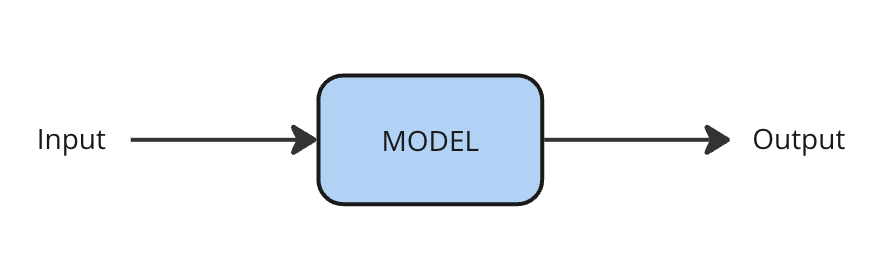
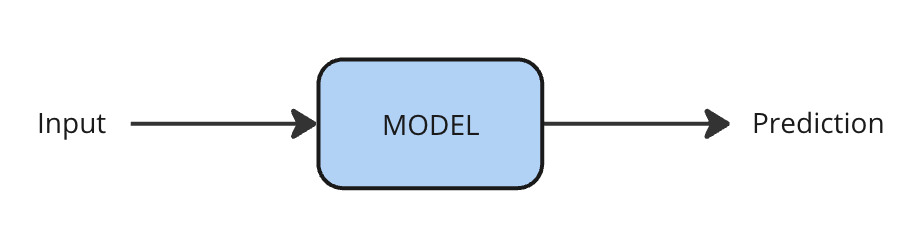
Updated descriptions of un/supervised learning

Changed region(s): [[0.0305, 0.2393, 0.9774, 0.8376], [0.3971, 0.4487, 0.5498, 0.5983]]

diff --git a/docs/supervised-learning.md b/docs/supervised-learning.md
@@ -6,42 +6,74 @@ This section will help you understand:
 
 - What supervised learning is, and where you can use it
 - The difference between classification and regression
+- Some of the supervised learning algorithms you might encounter
 - Some real-world examples of supervised learning in research
 
 
 ## What is supervised learning?
 
-Supervised learning is one of the most widely used types of machine learning. Supervised models predict an output for a given input. Our job is to define what the input and output are, and train the model to do a good job at the prediction. 
+Supervised learning is one of the most widely used types of machine learning in the field of AI. Supervised models make predictions about their inputs. They learn how to make those predictions from a dataset of examples that are labelled with the correct prediction (also called the _ground truth_).
+
+Our job in using supervised learning is to define what the input and output of a model should be, to obtain the labelled data, and then to train the model to make accurate predictions. 
 
 ![Supervised Learning](imgs/sup1.png){ align=center }
 
-In supervised learning, models are trained on a dataset that's been labelled with the labels that you would like the model to predict. One example is of spam email detection, where we would like to predict whether an email is spam or not.
+One example of supervised learning is that of predicting whether an email is spam or not. In this example, there are two _categories_, or _classes_ - SPAM and NOT_SPAM.
+
+Our machine learning models cannot directly accept email text as input, so first we extract features from each of the emails. Three features might be, for example, the length of the email, the number of spelling mistakes, and the number of dollar signs in the email. 
 
 ![Spam Email Detection](imgs/sup2.png){ align=center }
 
+By training the model directly on a dataset of emails that have been labelled as being spam or not, the model can learn the patterns that identify the two types of email, and then predict for a new email whether it is spam or not. 
+
+## Classification and Regression
+
 Supervised learning can either be **classification** or **regression**.
 
-**Classification** is where the output is one of a fixed number of categories. This could be a binary classification task where there are exactly two possible outputs, like the example of spam email. There could be multiple categories, likerecognising the person in an image, like your phone might do. Even more, in some scenarios, an input might have multiple output labels, which is called _multi-label classification_, e.g. an image might have multiple people in it.  
+**Classification** is where the output is one of a fixed number of categories. This could be a binary classification task where there are exactly two possible outputs, like the example above of spam email detection. A different task might have multiple categories that an input could belong to. For example, recognising the face of a person in a photo. There are many possible people who could be pictured in the photo, and each person is a possible category. 
 
-**Regression** is where the output is a continuous number rather than a discrete class. Examples might be...
+In other scenarios, an input might have more than one label. For example, a photo might have two or more different people in it, and we'd like to identify each. This is called _multi-label_ classification.
 
-Other examples of supervised learning tasks include:
+Sometimes the number of classes can be very large, as in the case of many language processing tasks. Automatically translating text from one language to another is a supervised task, where the model predictions are words in the target language. 
 
-| Task | Input | Output |
+**Regression** is similar to classification, except that the output is a continuous number rather than a discrete class. Examples might be predicting the toxicity of a molecule on a scale. 
+
+## Examples of Supervised Learning
+
+Examples of supervised learning tasks include:
+
+| Task | Input | Prediction |
 | ---- | ----- | ------ |
+| Segment tumours in medical images | Medical images | Areas which are tumours |
+| Toxicity prediction | Chemical formula | Toxicity |
+| Medical Diagnosis | Biomarkers, test results etc. | Diagnosis |
 | Automated transcription | Audio files | Written transcription |
 | Machine translation | Text in the source language | Text in the target language |
 
 
-Inputs here are also known as _features_. Outputs are labels, or predictions. 
+## Types of Supervised Learning Model
+
+Some of the common supervised learning algorithms you might encounter are:
+
+- Linear Regression
+- Logistic Regression
+- Decision Trees 
+- Support Vector Machines
+- Neural Networks
+
+Much of the recent excitement around AI focuses on neural network approaches. However, depending on your data and task, the other algorithms may be more practical to use.
+
+## Feature Extraction
+
+It's worth noting that models require numerical inputs as it's something you'll need to consider in designing your setup. Some tasks naturally have numerical inputs already - whether that's data from sensors, medical tests, pixel values or something else that's naturally a number. In other tasks, we need to convert our input to a numerical format by extracting _features_. 
 
 
 ## Top Tips for getting started
 
-1. Think carefully about the task you want to work with; can you define your task as a supervised learning one? What are the inputs and outputs of your model?
+1. A great place to begin is by thinking about the task you want to used supervised learning for. Can you define your task as a supervised learning one? What are the inputs and predictions of your model?
 2. Next, think about the data you have. Can you label it easily?
-3. Think carefully about how to evaluate whether your system is working. What metrics could you use?
-4. What are the risks and ethical concerns with your proposed work?
+3. Evaluating your model is also important, and at this point it's feasible to think about how you'll evaluate whether your system is working. What metrics could you use?
+4. What are the risks and concerns with your proposed work?
 
 Once you've answered these questions, you're ready to move onto training a model.
 
@@ -53,7 +85,7 @@ Find more examples of research using supervised learning on Accelerate's blog:
 - [Nicola Moloney talks about using supervised learning to predict where proteins are localised within a cell](https://acceleratescience.github.io/accelerate-spark%20data%20science%20residency/2021/06/24/NicolaMoloney-ML-for-parasitology.html)
 - [Joyce Nakatumba-Nabende discusses how speech recognition can be deployed to help farmers in Uganda](https://acceleratescience.github.io/machine-learning/2024/01/08/how-can-we-use-ai-to-help-smallholder-farmers-in-uganda.html)
 - [Yizhou Wan tells us how AI can be used to segment brain tumours in images, and to estimate their volume](https://acceleratescience.github.io/accelerate-spark-data-science-residency/2024/01/31/can-we-use-ai-to-better-treat-brain-cancer.html)
-
+- [Chris Bannon hopes to predict whether someone's gut biome or metabolic marker levels are that of a healthy person, or whether they have a metabolic or bowel condition](https://acceleratescience.github.io/accelerate-spark-data-science-residency/machine-learning/2024/02/19/how-can-we-use-ai-to-advance-metabolic-medicine.html)
 
 ## Contact
 

diff --git a/docs/unsupervised-learning.md b/docs/unsupervised-learning.md
@@ -13,33 +13,35 @@ This section will help you understand:
 
 Supervised learning is the most popular form of AI. However, supervised learning requires labelled data, which can be difficult or expensive to obtain. Most of the data in the world is unlabelled. Unsupervised learning helps us make sense of unstructured and unlabelled data.
 
-Three common unsupervised algorithms are _clustering_, _dimensionality reduction_ and _anomaly detection_. 
+Three common unsupervised algorithms are _clustering_, _dimensionality reduction_ and _anomaly detection_.
+
+## Unsupervised Learning Algorithms
 
 **Clustering**
 
-Clustering is the process of taking your data and arranging it into sub-groups, or clusters, that are sufficiently similar to each other. Unlike classification, where we know the groups ahead of time, clustering uncovers the structure of the groups in a larger population.
+Clustering is the process of taking your data and discovering sub-groups, or clusters, that are sufficiently similar to each other. Unlike classification in supervised learning, where we know the groups ahead of time, clustering uncovers the structure of the groups in a larger population.
 
-Suppose you have a library of photos of people. A clustering algorithm might group them into clusters that you hope would correspond to specific individuals. This is not unlike the processing that your phone's library might do. You cannot guarantee that this is the case, your phone might for example group two people together if they look similar, or split one person into two clusters based on something like their haircut. 
+Suppose you're working with medical data. You know that some groups of people respond differently to treatment than others, but you don't know the factors that lead here. A clustering algorithm might group your participants into different clusters that allow you to explain what's going on. 
 
-Other applications of clustering include: xxx
+Other places that people have used clustering include uncovering structure in archeological data, clustering sounds and speakers together, identifying sub-groups of study participants etc. 
 
-K-means is a popular clustering algorithm. You might have to give the number of clusters, or you might use a method to try and find the best fitting number of clusters.  
+K-means and DBSCAN are popular clustering algorithms. You may need to give the number of clusters before running the clustering algorithm, or you might use an automated method to try and find which number of clusters best fits the data. 
 
 
 **Dimensionality reduction**
 
-High dimensional data is hard to work with. It's hard to see, and also has an impact on the number of parameters your AI model might need to model the data. The more parameters you have, the larger model and more data you need. This is the _curse of dimensionality_.
+High dimensional data is hard to work with. The first thing we usually notice is that it's hard to visualise well, so that you can explore what the data looks like. A high number of dimensions also imacts the number of parameters your AI model needs to model the data. The more parameters a model has, the larger model and more data you need. This is the _curse of dimensionality_.
 
-Reducing the dimensionality of your data can be one way to work with this.
+Reducing the dimensionality of your data can be one way to work with it effectively. Projecting down to 2- or 3-dimensions means that you can plot it on a graph to view. 
 
-Can also help with visualisation, because we can project to 2- and 3-dimensions which we can view on a graph. 
+
+Principal Component Analysis (PCA), [t-SNE](https://distill.pub/2016/misread-tsne/), and [UMAP](https://pair-code.github.io/understanding-umap/) are popular dimensionality reduction algorithms that you might see used. 
 
 **Anomaly Detection**
 
-Tries to figure out if an example is an anomaly, and doesn't fit with the rest of the set. 
+Anomoly detection is identifying anomolous or rare examples in a dataset, that are inconsistent with the rest of the dataset.
 
-For example, identifying a fraudulent bank transaction because it doesn't fit with your other transactions. 
-
+Examples of this might be in identifying fraudulent and unusual bank transactions, or identifying unusual behaviour that might be a cybersecurity threat. 
 
 
 ## Inspiration

diff --git a/docs/reinforcement-learning.md b/docs/reinforcement-learning.md
@@ -11,27 +11,20 @@ This section will help you understand:
 
 
 ## Overview
-Reinforcement learning is an area of AI and ML looking at tasks where the computer has to take a series of moves in an uncertain and changing environment, to achieve a goal. 
+Reinforcement learning is an area of AI and ML looking at tasks where the computer has to take a series of moves in an uncertain and changing environment, to achieve a particular goal. 
 
 RL is used in scenarios like
 
-- Playing computer games (DeepMind’s Go and Atari models)
+- Playing games
 - Human-computer dialogue
-- Controlling robots in dynamic environments
+- Controlling robots in real-world environments
 
-In each of these tasks, it’s hard to judge in isolation whether a single turn or move by the computer is optimal, but we do know in the long-term whether the computer achieves its goal. The machine may or may not have good visibility of its environment. 
+In each of these tasks, it’s hard to judge in isolation whether a single turn or move by the computer is optimal. Yet, we do know in the long-term whether the computer achieves its goal.
 
-Reinforcement learning aims to optimise a reward that the machine gets from successfully completing its goal, perhaps with some penalty for taking too long. 
 
-An agent, i.e. the computer, exists in an environment. The agent must take a series of actions, moving them between states. Over time, they accumulate a reward. 
+## Inspiration
 
-Compared to supervised and unsupervised methods, RL learns dynamically. 
-
-In real-world scenarios is might not be feasible (or timely) for the machine to learn in the real environment, so it may be simulated. 
-
-Much theoretical work has been done in a computer game environment where the reward is the score at the end of the game. 
-
-RL algorithms learn a policy - that’s the model to decide which action to take in any one state.
+- [One famous example of reinforcement learning is Deepmind's AlphaGo model, that learned to play the game Go](https://deepmind.google/technologies/alphago/)
 
 
 ## Contact

diff --git a/docs/what-is-ai.md b/docs/what-is-ai.md
@@ -9,7 +9,7 @@ This section will help you understand:
 
 
 ## Overview
-AI is suddenly everywhere! And researchers are looking to use AI in their research, but need to understand what it is to make informed decisions about pursuing research using AI. 
+AI has grown in popularity over the past decade, and is cropping up in many places. If you're a researchers who wants to use AI in your work, it's helpful to understand what AI is and to think about how you can use it effectively. 
 
 This short online course is a set of resources to explain the core concepts behind AI, without the need for maths and programming. The goal is to allow researchers to explore the ideas behind AI and how they might work in research, before diving in to learn more. 
 
